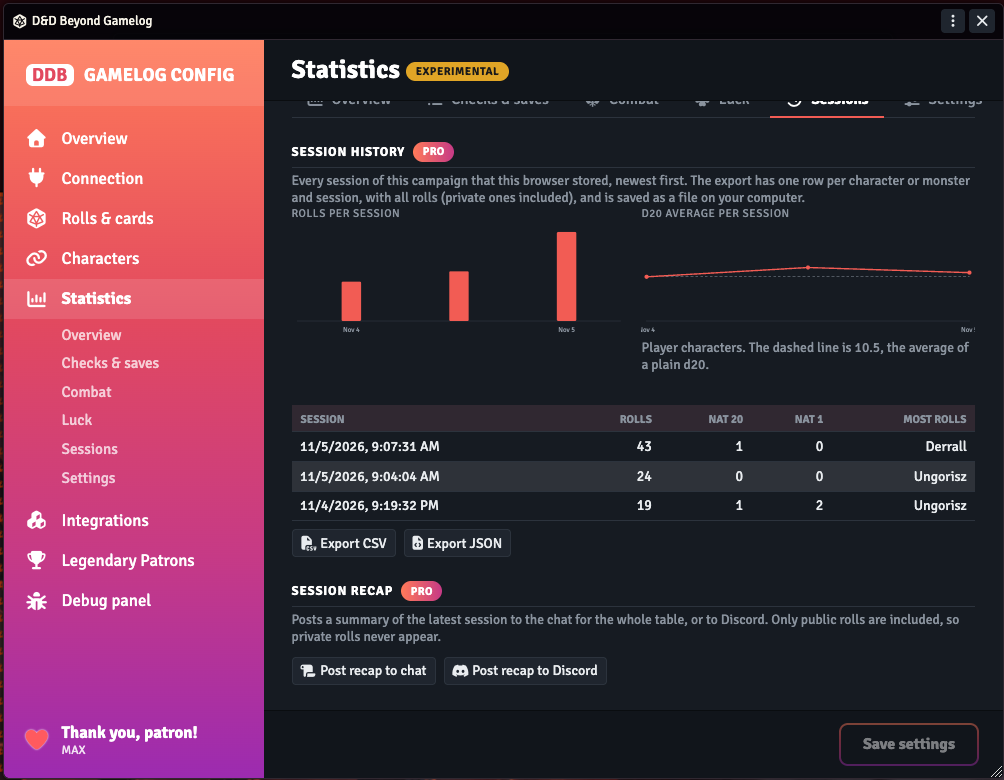
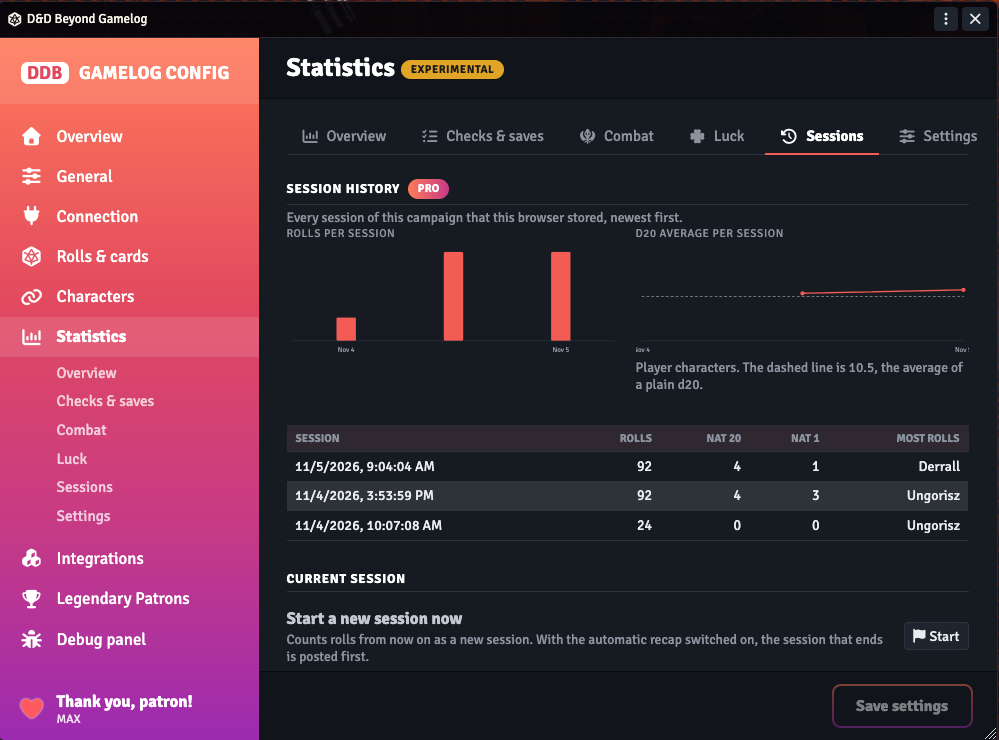
docs: statistics import and export, example data, General page, PRO player view

diff --git a/docs/features/statistics.md b/docs/features/statistics.md
@@ -6,7 +6,7 @@ nav_order: 8
 
 # Statistics (experimental)
 
-**Tier:** Free teaser, Basic for the highlights and the character table, PRO for everything else. **Status:** experimental.
+**Tier:** Free teaser, Basic for the party at a glance, the highlights and the character table, PRO for everything else. **Status:** experimental.
 
 {: .warning }
 This is a test build, and this feature is experimental on top of that. Figures may change or miss rolls. Please report problems, see [Feedback]({{ '/feedback.html' | relative_url }}).
@@ -14,12 +14,13 @@ This is a test build, and this feature is experimental on top of that. Figures m
 | What | Tier |
 | --- | --- |
 | Session so far: rolls, natural 20s and 1s, most active roller | Free |
-| Highlights, character table, range filter (latest session, 30 days, all time) | Basic |
-| Players see their own statistics | Basic |
-| Party figures, monster table, Checks & saves, Combat and Luck tabs | PRO |
+| Party at a glance, highlights, character table, range filter (latest session, 30 days, all time) | Basic |
+| Players see their own statistics | PRO |
+| Monster table, Checks & saves, Combat and Luck tabs | PRO |
 | d20 distribution and session charts | PRO |
 | Luck awards | PRO |
 | Session history and CSV / JSON export | PRO |
+| Import past rolls from D&D Beyond, and from a file | PRO |
 | Session recap to chat and Discord | PRO |
 
 Dice statistics for your campaign, built from the rolls Gamelog relays from D&D Beyond. Open them in **Gamelog Config → Statistics**.
@@ -29,8 +30,8 @@ Dice statistics for your campaign, built from the rolls Gamelog relays from D&D 
 - Every roll the GM's browser sees is stored there, so **flushing the chat log does not erase the statistics**.
 - Records are filed per D&D Beyond campaign. The page shows the current campaign.
 - They are kept in the **GM's browser only**, because they include private rolls. A second GM, or a cleared browser, starts with its own (or no) history.
-- Rolls from before the module was installed, or made while no GM browser was open and deleted since, are missing.
-- A new **session** starts after a 3-hour pause. The GM can also start one by hand.
+- Rolls from before the module was installed, or made while no GM browser was open and deleted since, are missing. **Import and export** on the Sessions tab can fill that gap, see [Import and export](#import-and-export-pro).
+- A new **session** starts after a 3-hour pause. The GM can also start one by hand, from the Sessions tab.
 
 Rolls made in Foundry itself (from character or NPC sheets) are counted only if you switch them on, see [Settings](#settings).
 
@@ -38,7 +39,7 @@ Rolls made in Foundry itself (from character or NPC sheets) are counted only if 
 
 The **Show** selector at the top picks the range: latest session, last 30 days, or all time.
 
-- **Overview**: highlights (highest and lowest d20 average, most natural 20s and 1s, biggest hit, most damage, most healing) and a table per character. With PRO, also party cards and a table for monsters and others.
+- **Overview**: the party at a glance (total rolls, d20 average, natural 20s and 1s, damage dealt, healing done), highlights (highest and lowest d20 average, most natural 20s and 1s, biggest hit, most damage, most healing) and a table per character. With PRO, also a table for monsters and others.
 
 {% include screenshot.html src="statistics-overview.png" alt="The Overview tab with highlights and the character table" %}
 
@@ -51,8 +52,8 @@ The **Show** selector at the top picks the range: latest session, last 30 days, 
 {% include screenshot.html src="statistics-combat.png" alt="The Combat tab" %}
 
 - **Luck** (PRO): how far each character's d20 average is above or below what the dice give on average, the d20 distribution chart and the luck awards.
-- **Sessions** (PRO): session history, export and the recap.
-- **Settings**: what is counted and shown, the automatic recap, and session and data actions.
+- **Sessions** (PRO): session history, starting a new session, the recap, and import and export.
+- **Settings**: what is counted and shown, the automatic recap, and **Reset statistics**.
 
 {% include screenshot.html src="statistics-settings.png" alt="The Settings tab" %}
 
@@ -61,6 +62,10 @@ The **Show** selector at the top picks the range: latest session, last 30 days, 
 
 {: .note }
 Rolls stored by earlier builds have no roll type. They count in the totals and tables of the Overview, but not in Checks & saves, Combat or Luck, and the tabs tell you how many were left out.
+
+## Example data on locked tabs
+
+With **Show upgrade hints** on (**Gamelog Config → General**), the tabs your membership does not include show **made-up example rolls** instead of a lock: Checks & saves, Combat and Luck (with the awards and the d20 chart) for Lite and Basic, and the session history and charts on the Sessions tab. A banner says the figures are examples, they are never stored, and your own rolls are not touched. Lite members get the tab bar too, with the real session-so-far teaser on the Overview tab. Switch the hints off and the tabs show the lock again.
 
 ## Luck
 
@@ -72,23 +77,23 @@ Luck is the d20 average minus the average the dice give for each roll's advantag
 
 {% include screenshot.html src="statistics-awards.png" alt="Luck awards on the Luck tab" %}
 
-## Player view
+## Player view (PRO)
 
-With **Let players see their own statistics** on (the default), players get a **My dice statistics** button next to the chat input. It shows the rolls of the characters they own: personal bests, luck, a table and the range filter. Monsters and other players' private rolls never show.
+With **Let players see their own statistics** on (the default; locked without PRO), players get a **My dice statistics** button next to the chat input. It shows the rolls of the characters they own: personal bests, luck, a table and the range filter. Monsters and other players' private rolls never show.
 
 {% include screenshot.html src="statistics-player-button.png" alt="The My dice statistics button next to the chat input" %}
 
 {% include screenshot.html src="statistics-player.png" alt="The player's own statistics window" %}
 
-It runs on the GM's membership, players do not need one. A player's numbers start when the view first became available in their browser, and rolls of characters without a Foundry actor are not shown.
+It runs on the GM's PRO membership, players do not need one. Without PRO the button is not shown. A player's numbers start when the view first became available in their browser, and rolls of characters without a Foundry actor are not shown.
 
 ## Session recap (PRO)
 
-The latest session as a summary: totals, highlights and a table per character.
+The latest session as a summary: totals, highlights and the characters.
 
-- **Post recap to chat** puts a themed card in the chat for the whole table.
-- **Post recap to Discord** needs the Discord integration, see [Discord]({{ '/features/discord.html' | relative_url }}). The embed is in English.
-- The Settings tab can post the recap by itself when you use **Start a new session now**. A session that ends after a 3-hour pause is not posted.
+- **Post recap to chat** puts a themed card in the chat for the whole table, sent as "DDB Gamelog". Each character gets its own row with labelled values (rolls, d20 average, natural 20s and 1s, damage, healing) that wrap to fit a narrow chat, and empty values are left out.
+- **Post recap to Discord** needs the Discord integration, see [Discord]({{ '/features/discord.html' | relative_url }}). The embed shows the totals as large numbers, the highlights with an emoji each, and the party as an aligned table. It is in English.
+- The Settings tab can post the recap by itself when you use **Start** under **Current session**. A session that ends after a 3-hour pause is not posted.
 
 Only **public rolls** are included, so private rolls never appear.
 
@@ -96,11 +101,32 @@ Only **public rolls** are included, so private rolls never appear.
 
 {% include screenshot.html src="statistics-recap-discord.png" alt="The session recap as a Discord embed" %}
 
-## Session history and export (PRO)
+## Session history and current session (PRO)
 
-The Sessions tab lists the latest sessions of the campaign with their rolls, natural 20s and 1s and the most active character, and charts the rolls and d20 average per session once there are two. **Export CSV** and **Export JSON** save every session as a file, one row per character or monster and session. The export includes private rolls, it is your own browser's data.
+The Sessions tab lists the latest sessions of the campaign with their rolls, natural 20s and 1s and the most active character, and charts the rolls and d20 average per session once there are two.
 
-{% include screenshot.html src="statistics-sessions.png" alt="The Sessions tab with the history, charts and export buttons" %}
+Under **Current session**, **Start** counts rolls from now on as a new session. With the automatic recap switched on, the session that ends is posted first.
+
+{% include screenshot.html src="statistics-sessions.png" alt="The Sessions tab with the history, charts and the current session" %}
+
+## Import and export (PRO)
+
+One section on the Sessions tab, with three rows. Records are kept in this browser only, so this is also how you move statistics to another GM browser.
+
+{% include screenshot.html src="statistics-import.png" alt="The Import and export section" %}
+
+**Export** saves a file: **CSV** has one row per character or monster and session. **JSON** has the same figures and also keeps every roll of the campaign, private ones included, so it can be imported again. It is your own browser's data.
+
+**From D&D Beyond** reads the campaign's earlier rolls from D&D Beyond's game log and adds the ones this browser has not stored yet, so the statistics reach back before tracking began.
+
+- Only the browser that relays D&D Beyond rolls can do it, and it needs a connection to the server and a picked campaign. Otherwise the button is disabled and says why.
+- It walks back from the newest roll, one page of 20 to 40 rolls at a time, and shows how many rolls it read, how many were new and how far back it got. **Stop** ends it; what was already added stays.
+- Rolls the browser already has are not counted twice, and private rolls meant for other players are never included.
+- If D&D Beyond limits requests, it waits 5, 15 and 45 seconds and tries again before it gives up. A run that stopped, failed or was limited carries on where it left off next time: the button then reads **Continue import from D&D Beyond**.
+- After a complete import, a deeper import of the same campaign has a **3-hour cooldown**. A refresh of the latest rolls still works (the first pages), the older ones can be imported again after the time the page shows.
+- After a complete import, running it again stops at the first page of rolls it already knows.
+
+**From a file** imports a JSON export made with **Export JSON**, also one from another GM browser, and adds its rolls. Repeating it adds nothing. Exports made before the JSON kept the rolls cannot be imported, the page tells you so, and a file that is not a statistics export is refused without changing anything.
 
 ## Settings
 
@@ -108,12 +134,12 @@ The Sessions tab lists the latest sessions of the campaign with their rolls, nat
 - **Let players see their own statistics**: the player view above.
 - **Show luck awards**: off by default.
 - **Automatic recap** to chat and to Discord when you start a new session.
-- **Start a new session now**: counts rolls from now on as a new session.
-- **Reset statistics**: deletes the roll records this browser stored for the current campaign. Rolls still in the chat log are not counted again.
+- **Reset statistics**: a red button that deletes the roll records this browser stored for the current campaign, after a confirmation. Rolls still in the chat log are not counted again.
 
 ## Known limits
 
 - Statistics are only as complete as what the GM's browser saw, see [Where the numbers come from](#where-the-numbers-come-from).
-- The history is not shared between GM browsers, and there is no import of older D&D Beyond rolls yet.
+- The history is not shared between GM browsers: use **Import and export** to move it.
+- The cooldown of a deeper import is kept on the server and starts again if the server restarts.
 - Only the latest manual session start is remembered, so older hand-made splits are not recovered.
 - Without a membership that includes them, locked parts show a hint instead, see [Tiers]({{ '/tiers.html' | relative_url }}).

diff --git a/docs/testing.md b/docs/testing.md
@@ -207,7 +207,7 @@ Turn the switches on in **Gamelog Config → Rolls & cards → Automatisms** fir
 Open **Gamelog Config → Statistics** after some rolls, public and private. See [Statistics]({{ '/features/statistics.html' | relative_url }}).
 
 - Roll a few attacks, checks, saves and damage on D&D Beyond, then switch the range between latest session, 30 days and all time.
-- **Expect**: the counts, highlights and character table follow the range.
+- **Expect**: the counts, party at a glance, highlights and character table follow the range.
 - Flush the chat log in Foundry and reopen the page.
 - **Expect**: the numbers are still there.
 - Switch on counting Foundry rolls (characters, monsters) and roll from a sheet in Foundry.
@@ -216,18 +216,43 @@ Open **Gamelog Config → Statistics** after some rolls, public and private. See
 - **Expect**: skills, abilities and saves are listed; Combat shows no hit rate, only dice figures; Luck shows from 10 d20 rolls.
 - Turn on luck awards in Settings.
 - **Expect**: awards appear on the Luck tab for the GM only, and nowhere in chat.
-- As a player, use the **My dice statistics** button next to the chat input.
+- As a player, use the **My dice statistics** button next to the chat input (needs the GM on PRO).
 - **Expect**: only your own characters, no monsters, no other player's private rolls. With the GM's switch off, the button explains it is unavailable.
 - Post the recap to chat, and to Discord with a webhook connected.
-- **Expect**: a card with public rolls only; private rolls never appear.
-- Turn on the automatic recap and use **Start a new session now**.
+- **Expect**: a chat card sent as "DDB Gamelog" with one wrapping row per character, readable in both Foundry 13 and 14; a Discord embed with big totals, emoji highlights and a party table. Public rolls only; private rolls never appear.
+- Turn on the automatic recap, then use **Start** under **Current session** on the Sessions tab.
 - **Expect**: the session that ended is posted, and new rolls count in a new session.
-- Export CSV and JSON on the Sessions tab.
-- **Expect**: a file with one row per character or monster and session.
-- Use **Reset statistics**.
+- Use **Export CSV** and **Export JSON** in the **Import and export** section.
+- **Expect**: a file with one row per character or monster and session; the JSON also holds every roll.
+- Use **Reset statistics** in Settings (the red button), confirm.
 - **Expect**: the records of this campaign are gone and old chat rolls are not counted again.
+- Pick **Import from file** and choose the JSON you exported before the reset.
+- **Expect**: the rolls are back, with their types, skills and private/public state. Importing the same file again adds nothing. A file that is not an export, or an export made before this build, is refused with a message.
+- Use **Import from D&D Beyond** in a browser that relays, with a campaign that has plenty of rolls.
+- **Expect**: progress shows rolls read, new rolls and how far back it got; the dates move back. Rolls you already have are not doubled, and a private roll meant for another player never appears.
+- Press **Stop** in the middle, then press the button again.
+- **Expect**: it reads **Continue import from D&D Beyond** and carries on where it stopped.
+- Let an import reach the oldest roll, then run it again.
+- **Expect**: the second run stops after the first page, as it already knows everything. Within 3 hours a deeper walk is refused with the time it is possible again, but the latest rolls still refresh.
+- Open the Sessions tab in a browser that does not relay, and as a member without PRO.
+- **Expect**: the import from D&D Beyond is disabled and says why; without PRO the import and export buttons are locked with an upgrade hint.
 - Without a tier (second free Patreon account, see section 10).
-- **Expect**: only the session-so-far teaser shows, with an upgrade hint.
+- **Expect**: the Overview shows only the session-so-far teaser with an upgrade hint, and the Checks & saves, Combat, Luck and Sessions tabs show example figures under an "Example data" banner. With **Show upgrade hints** switched off on the General page, they show a lock instead.
+
+## 13. General page and sidebar button
+
+Open **Gamelog Config → General** as a GM. See [First steps]({{ '/first-steps.html' | relative_url }}).
+
+- Look at the sidebar tab column in Foundry.
+- **Expect**: a dragon button above the Settings tab (in Foundry 14, below the Dice So Nice tab if you have it). Clicking it opens Gamelog Config; clicking it with the window already open brings it forward instead of opening a second one.
+- Switch off **Gamelog button in the sidebar** and save.
+- **Expect**: the button disappears at once, without reloading. Switch it on again and it returns.
+- Log in as a player.
+- **Expect**: no button.
+- Switch **Show upgrade hints** off and look at a relayed card.
+- **Expect**: no upgrade line, only for you.
+- Change **Popup for a new module version** and reload Foundry when a newer build is out.
+- **Expect**: the popup follows the choice; the green banner in Gamelog Config shows either way.
 
 ## What to send back
 

diff --git a/docs/assets/img/README.md b/docs/assets/img/README.md
@@ -31,7 +31,10 @@ Pages include the images below via `{% include screenshot.html src="<name>.png" 
 | `statistics-player.png` | The player's "My statistics" window | features/statistics |
 | `statistics-recap-card.png` | A session recap card in Foundry chat | features/statistics |
 | `statistics-recap-discord.png` | The session recap embed in a Discord channel | features/statistics |
-| `statistics-sessions.png` | Statistics, Sessions tab with history, charts and export buttons | features/statistics |
+| `statistics-sessions.png` | Statistics, Sessions tab with history and the current session | features/statistics |
+| `statistics-import.png` | Statistics, Sessions tab, "Import and export" section (export, from D&D Beyond, from file) | features/statistics |
+| `sidebar-button.png` | The sidebar tab column with the dragon button above the Settings tab | first-steps |
+| `general-page.png` | Gamelog Config, General page | features/rolls-and-chat-cards |
 | `legendary-patrons.png` | Gamelog Config, Legendary Patrons page with a few names on the list | features/legendary-patrons |
 | `integrations.png` | Gamelog Config, Integrations page | integrations |
 | `debug-panel.png` | Gamelog Config, Debug panel | troubleshooting |

diff --git a/docs/tiers.md b/docs/tiers.md
@@ -31,7 +31,7 @@ Each tier includes everything in the tiers below it. Gamelog MAX has the same fe
 | Card themes, player colours | Basic |
 | D&D Beyond character avatars on cards | Basic |
 | Clicking a card opens the sheet or D&D Beyond | Basic |
-| Statistics: highlights, character table, player view | Basic |
+| Statistics: party at a glance, highlights, character table | Basic |
 | Automatic linking of ddb-importer characters | Basic |
 | Item and spell links on cards | PRO |
 | Monster rolls | PRO |
@@ -39,7 +39,7 @@ Each tier includes everything in the tiers below it. Gamelog MAX has the same fe
 | Live character and condition updates | PRO |
 | Apply damage and healing from cards | PRO |
 | Automatisms: spell templates, effect tray and usage buttons on cards (experimental) | PRO |
-| Statistics: party, monsters, checks, combat, luck, charts, awards, history, export, session recap | PRO |
+| Statistics: monsters, checks, combat, luck, charts, awards, history, export, import, session recap, player view | PRO |
 | Dice So Nice, JB2A + Automated Animations | PRO |
 | Discord relay of public rolls | PRO |
 | Midi-QoL integration (experimental) | PRO |

diff --git a/docs/features/rolls-and-chat-cards.md b/docs/features/rolls-and-chat-cards.md
@@ -56,9 +56,11 @@ The choice applies to GMs only; for players the click always selects and pans to
 
 ## Upgrade hints
 
-The **This browser** section at the bottom of the **Rolls & cards** page has **Show upgrade hints**. It adds a muted line to a relayed card where a higher Gamelog membership would do something more, for example applying damage.
+The **General** page of Gamelog Config has **Show upgrade hints** in its **Interface** section. It adds a muted line to a relayed card where a higher Gamelog membership would do something more, for example applying damage.
 
 Only GMs ever see these lines, never players, and the setting is remembered per browser rather than per world. Turn it off once the hints become noise.
+
+{% include screenshot.html src="general-page.png" alt="The General page of Gamelog Config" %}
 
 ## Item and spell links
 

diff --git a/docs/first-steps.md b/docs/first-steps.md
@@ -7,6 +7,11 @@ nav_order: 3
 
 You do these steps once, as the GM, in the browser you normally use for Foundry. Open **Game Settings → Configure Settings → D&D Beyond Gamelog → Open Gamelog Config** and go to the **Connection** page.
 
+{: .note }
+Once the module is active, GMs also get a **dragon button** in the sidebar, above the Settings tab, that opens Gamelog Config directly. You can switch it off under **Gamelog Config → General → Interface → Gamelog button in the sidebar**. The setting is remembered per browser.
+
+{% include screenshot.html src="sidebar-button.png" alt="The Gamelog button above the Settings tab in the sidebar" %}
+
 {: .warning }
 This is a test build. If a step does not work as described, that may be a bug. Please report it, see [Feedback]({{ '/feedback.html' | relative_url }}).
 

diff --git a/docs/install.md b/docs/install.md
@@ -72,8 +72,8 @@ If the module tells you that your version is no longer supported, update it.
 
 The module also tells you when a newer test build is out: the GM gets a popup,
 and **Gamelog Config** shows a green banner at the top of every page until you
-update. Players never see either. Under **Gamelog Config → Debug panel →
-Updates** you choose whether the popup shows once per release (the default) or
+update. Players never see either. Under **Gamelog Config → General →
+Interface** you choose whether the popup shows once per release (the default) or
 every time Foundry loads.
 
 ## Go back to the stable v2 module
